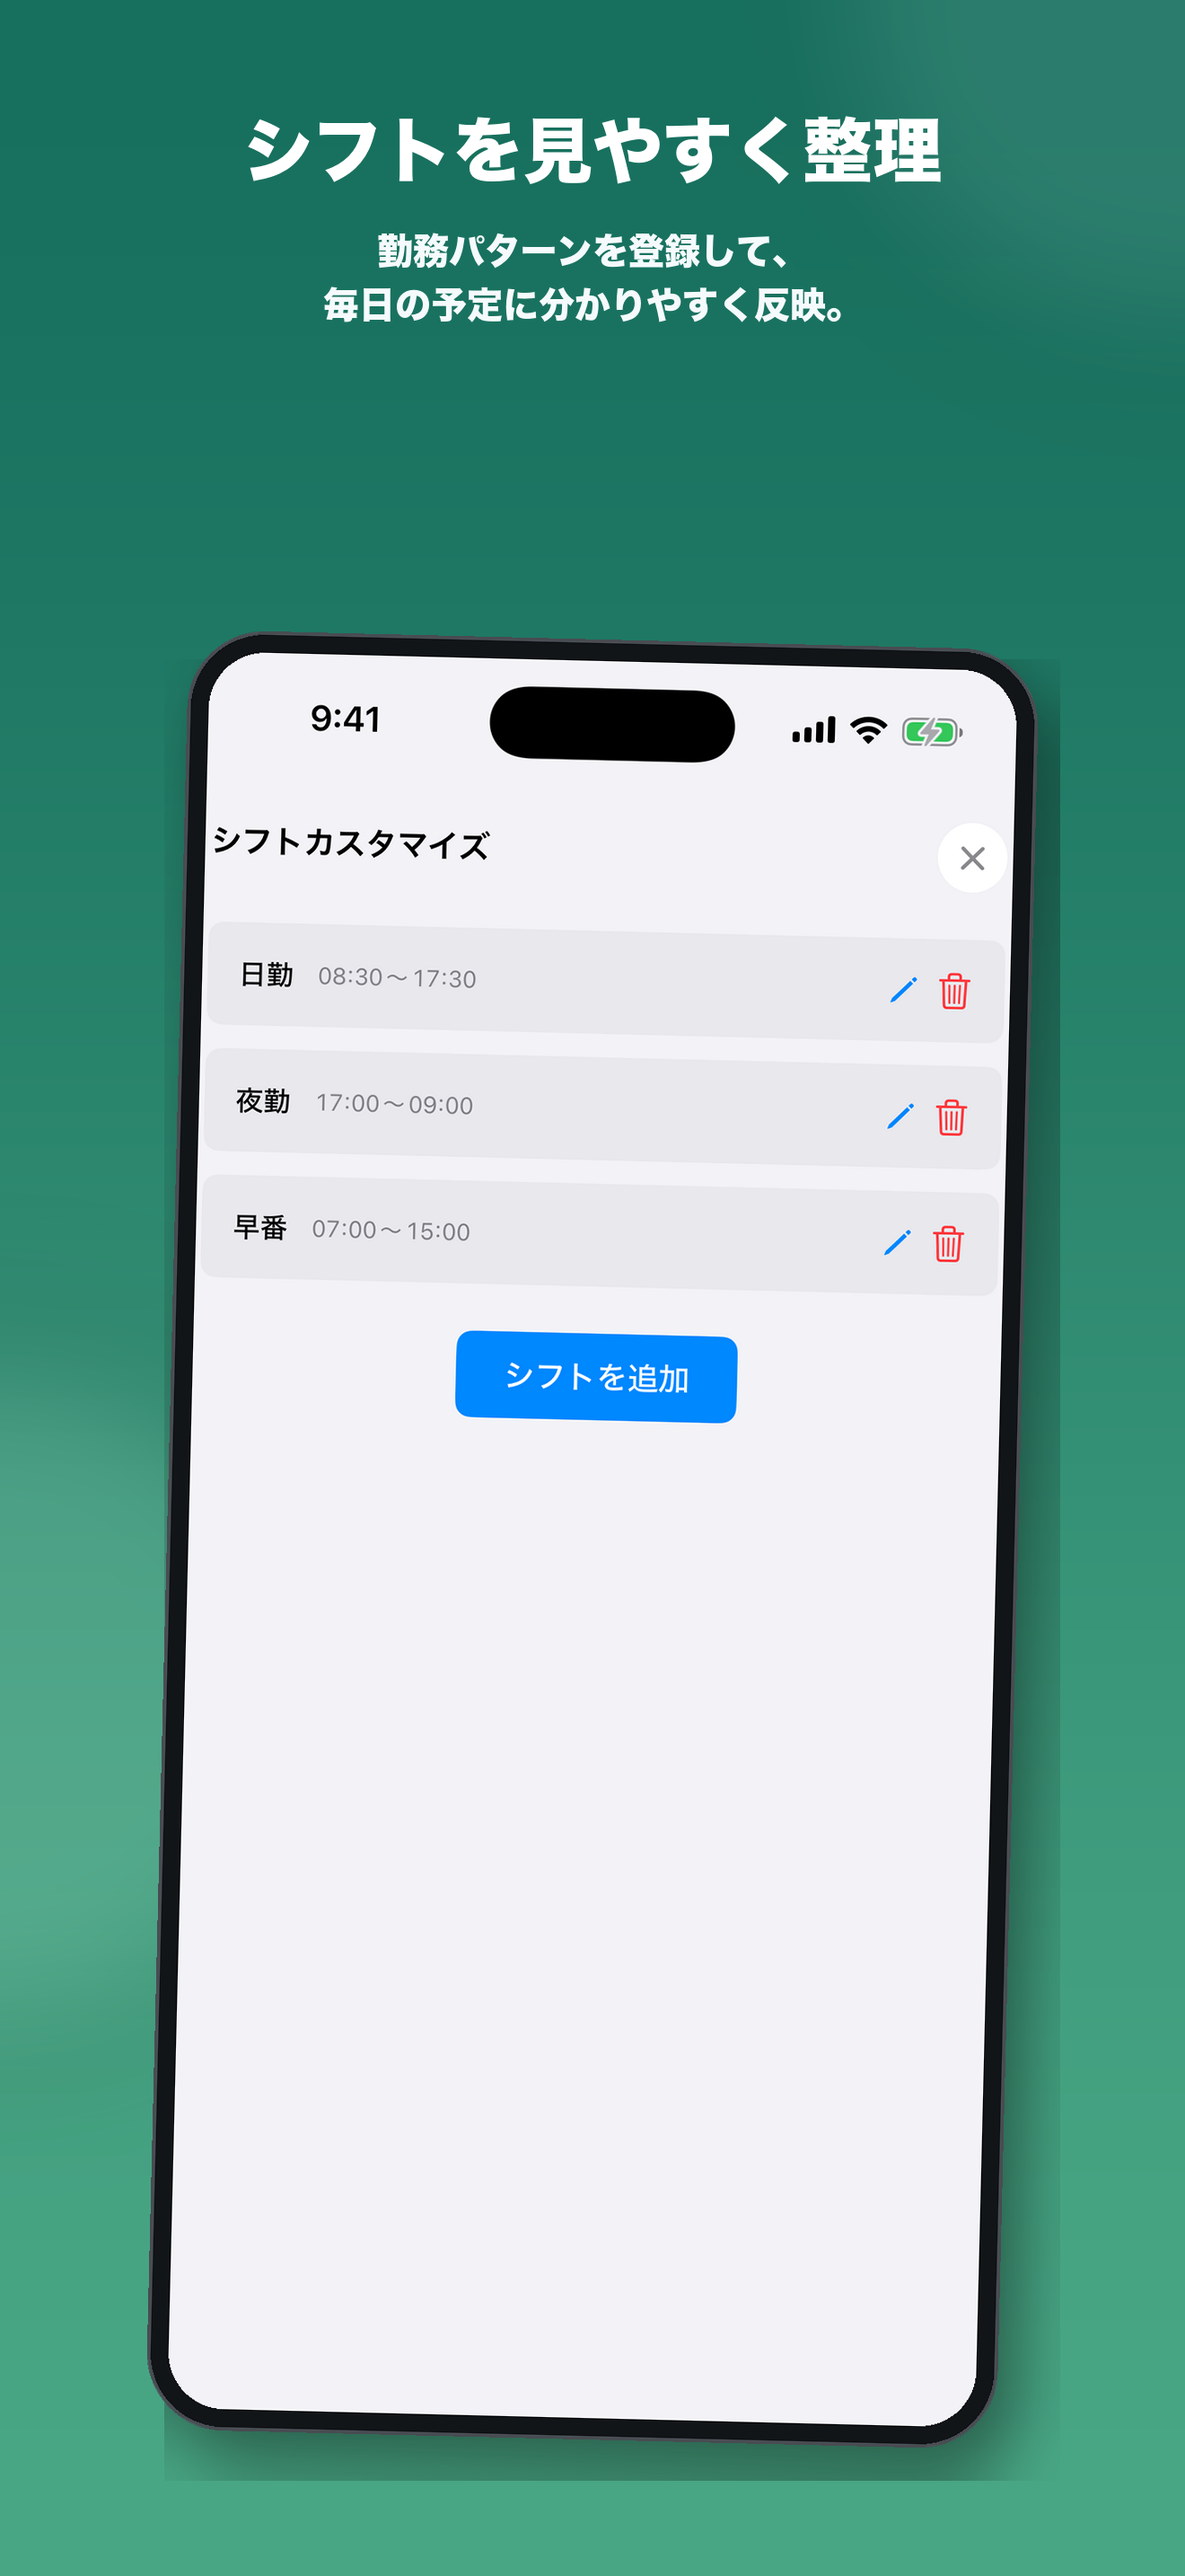
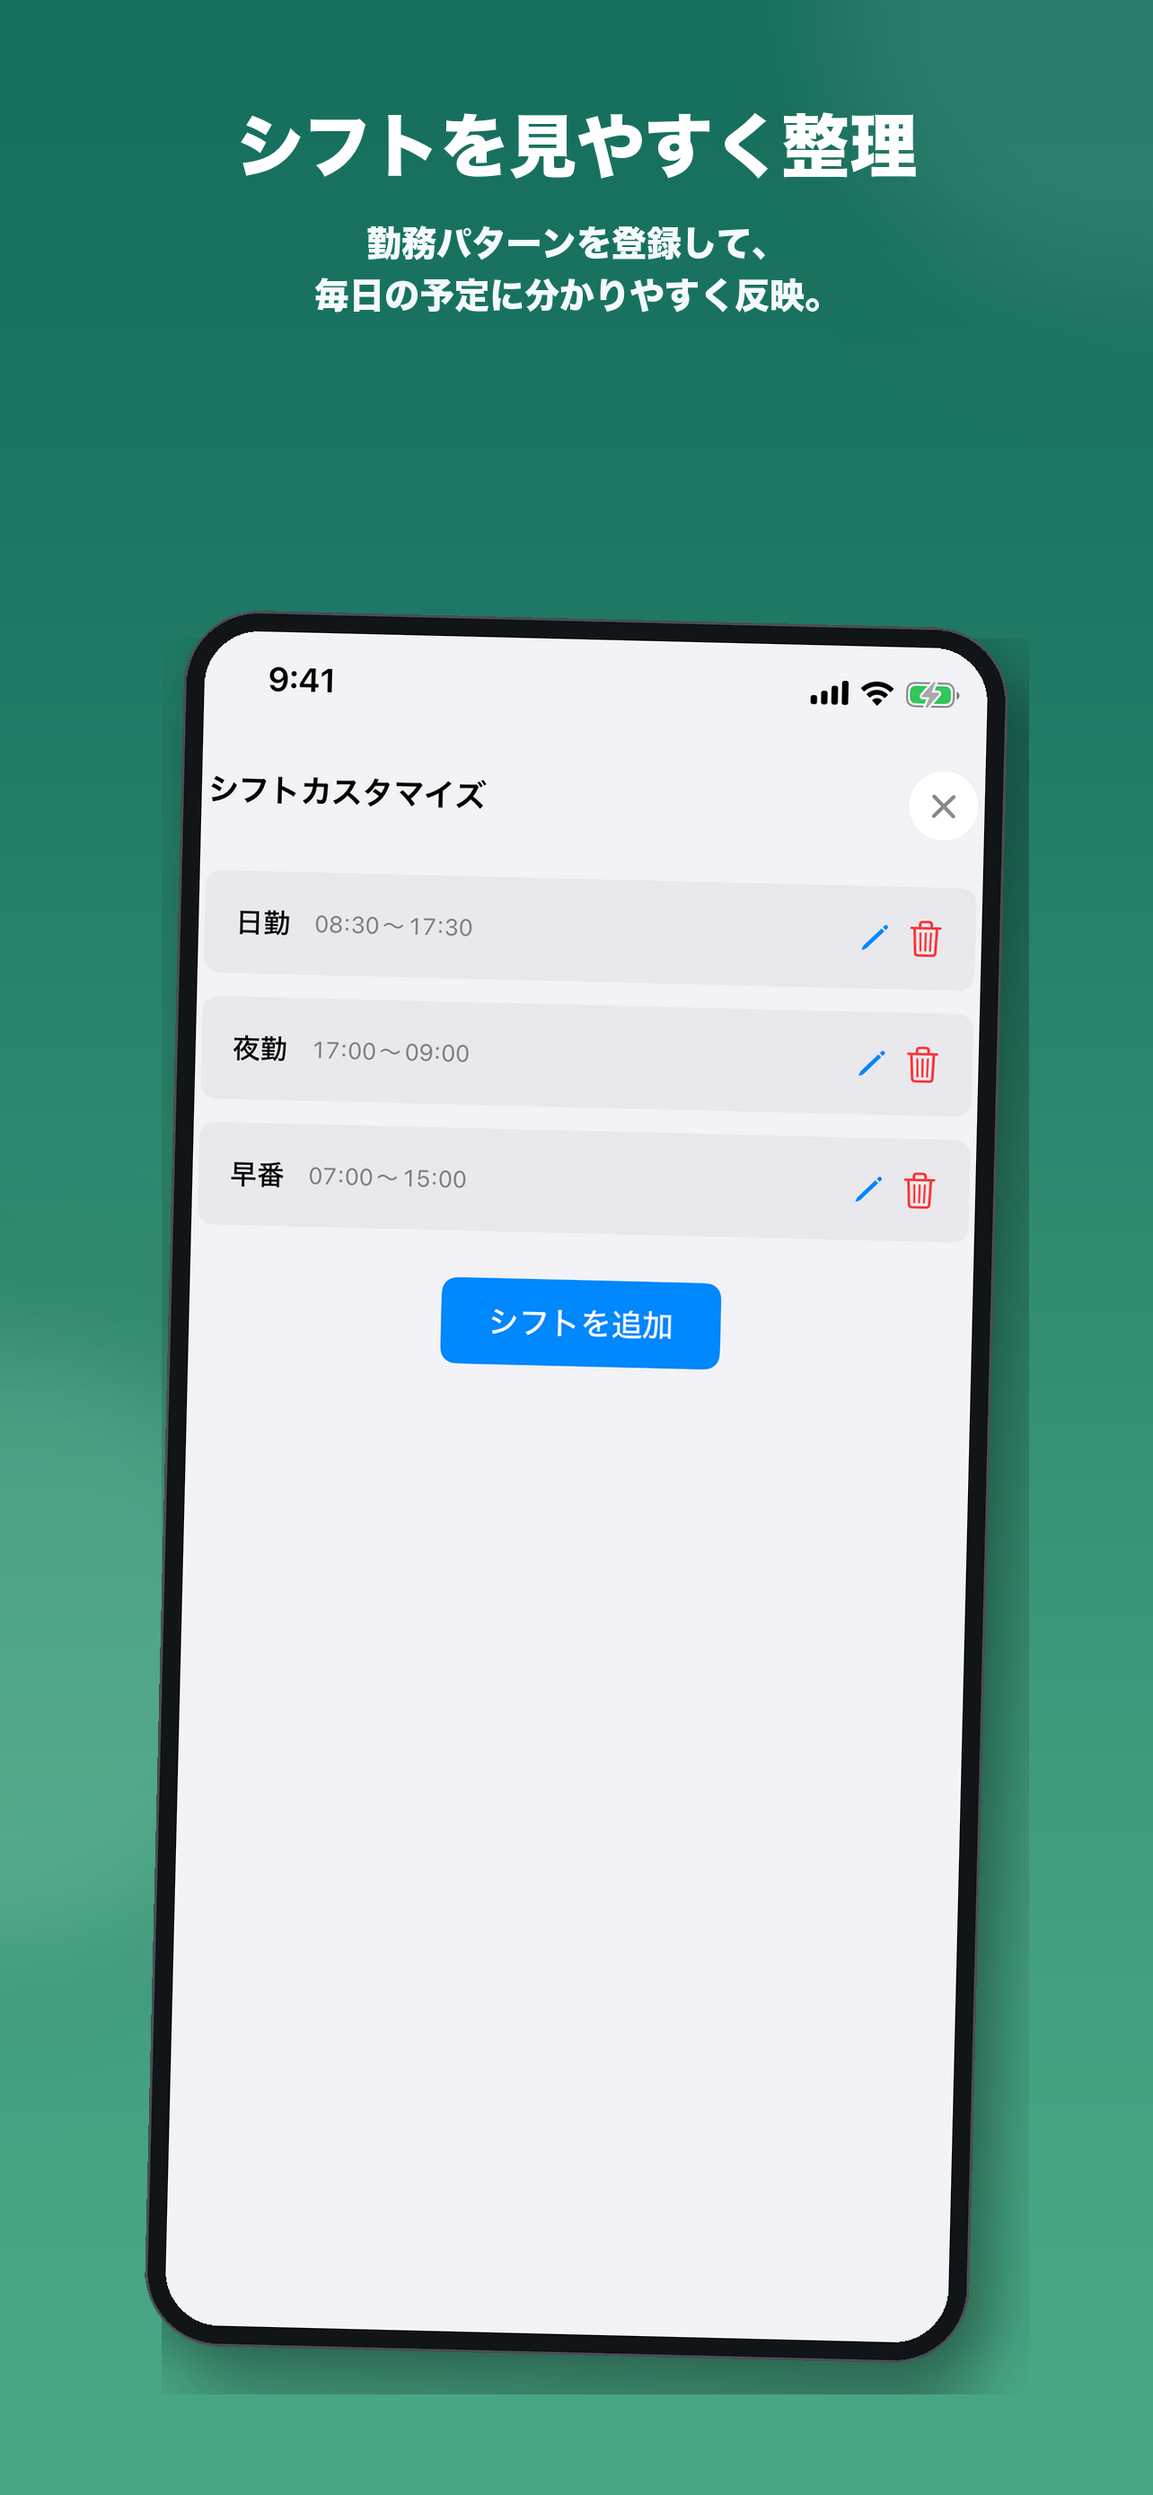
截图

diff --git a/Tests/TimeNestScreenshotUITests/WidgetSetupUITests.swift b/Tests/TimeNestScreenshotUITests/WidgetSetupUITests.swift
@@ -14,6 +14,15 @@ final class WidgetSetupUITests: XCTestCase {
         let springboard = XCUIApplication(bundleIdentifier: "com.apple.springboard")
         XCTAssertTrue(springboard.wait(for: .runningForeground, timeout: 5))
 
+        let appSwitcher = springboard.otherElements["AppSwitcherContentView"]
+        if appSwitcher.waitForExistence(timeout: 2) {
+            XCUIDevice.shared.press(.home)
+            XCTAssertFalse(
+                appSwitcher.waitForExistence(timeout: 2),
+                "Unable to leave the App Switcher for the Home Screen."
+            )
+        }
+
         let emptyArea = springboard.coordinate(withNormalizedOffset: CGVector(dx: 0.82, dy: 0.72))
         emptyArea.press(forDuration: 2.0)
 

diff --git a/AppStoreAssets/1.3/ja/scripts/compose_screenshots.py b/AppStoreAssets/1.3/ja/scripts/compose_screenshots.py
@@ -22,7 +22,8 @@ def parse_args() -> argparse.Namespace:
     parser = argparse.ArgumentParser()
     parser.add_argument(
         "--platform",
-        choices=("iPhone", "iPad", "all"),
+        type=str.lower,
+        choices=("iphone", "ipad", "all"),
         default="all",
         help="Platform to compose (default: all).",
     )
@@ -206,52 +207,65 @@ def device_mockup(
     return frame.rotate(angle, resample=RESAMPLING.BICUBIC, expand=True)
 
 
-def place_with_shadow(canvas: Image.Image, item: Image.Image, position: tuple[int, int]) -> None:
+def place_with_shadow(
+    canvas: Image.Image,
+    item: Image.Image,
+    position: tuple[int, int],
+    scale: float = 1.0,
+) -> None:
     shadow = Image.new("RGBA", item.size, (0, 0, 0, 0))
     silhouette = item.getchannel("A")
     shadow.putalpha(silhouette.point(lambda value: round(value * 0.42)))
     black = Image.new("RGBA", item.size, (0, 0, 0, 255))
     black.putalpha(shadow.getchannel("A"))
-    black = black.filter(ImageFilter.GaussianBlur(radius=34))
-    canvas.alpha_composite(black, (position[0] + 22, position[1] + 34))
+    black = black.filter(ImageFilter.GaussianBlur(radius=max(1, round(34 * scale))))
+    canvas.alpha_composite(
+        black,
+        (position[0] + round(22 * scale), position[1] + round(34 * scale)),
+    )
     canvas.alpha_composite(item, position)
 
 
-def compose_iphone(raw: Image.Image, screen: dict, font_path: str) -> Image.Image:
-    canvas = gradient_background((1320, 2868), screen["colors"], screen["accent"])
-    title_font = ImageFont.truetype(font_path, 78, index=0)
-    subtitle_font = ImageFont.truetype(font_path, 40, index=0)
+def compose_iphone(raw: Image.Image, screen: dict, font_path: str, config: dict) -> Image.Image:
+    canvas_size = tuple(config.get("canvas_size", config["final_size"]))
+    scale = min(canvas_size[0] / 1320, canvas_size[1] / 2868)
+    frame = config["frame"]
+    canvas = gradient_background(canvas_size, screen["colors"], screen["accent"])
+    title_font = ImageFont.truetype(font_path, round(78 * scale), index=0)
+    subtitle_font = ImageFont.truetype(font_path, round(40 * scale), index=0)
 
     y = draw_centered_text(
         canvas,
         screen.get("iphone_title", screen["title"]),
         title_font,
-        1120,
-        128,
+        round(1120 * scale),
+        round(128 * scale),
         (255, 255, 255, 255),
-        18,
+        round(18 * scale),
     )
     y = draw_centered_text(
         canvas,
         screen.get("iphone_subtitle", screen["subtitle"]),
         subtitle_font,
-        1050,
-        y + 28,
+        round(1050 * scale),
+        y + round(28 * scale),
         (245, 250, 252, 235),
-        16,
+        round(16 * scale),
     )
 
+    screen_width = int(frame["screen_width"])
+    screen_height = round(screen_width * raw.height / raw.width)
     mockup = device_mockup(
         raw,
         screen["iphone_crop"],
-        screen_size=(900, 1956),
-        border=24,
-        corner_radius=62,
+        screen_size=(screen_width, screen_height),
+        border=int(frame["border"]),
+        corner_radius=int(frame["corner_radius"]),
         angle=-1.4 if int(screen["id"]) % 2 else 1.4,
     )
     x = (canvas.width - mockup.width) // 2
-    device_y = max(700, y + 62)
-    place_with_shadow(canvas, mockup, (x, device_y))
+    device_y = max(int(frame["minimum_top"]), y + round(62 * scale))
+    place_with_shadow(canvas, mockup, (x, device_y), scale=scale)
     return canvas
 
 
@@ -303,6 +317,8 @@ def compose(platforms: Iterable[str]) -> None:
     manifest = load_manifest()
     font_path = find_font()
     for platform in platforms:
+        config = manifest["platforms"][platform]
+        raw_size = tuple(config.get("raw_size", (config["width"], config["height"])))
         for screen in manifest["screens"]:
             filename = f'{screen["id"]}_{screen["slug"]}.png'
             raw_path = ROOT / platform / "raw" / filename
@@ -310,8 +326,10 @@ def compose(platforms: Iterable[str]) -> None:
             if not raw_path.is_file():
                 raise FileNotFoundError(f"Missing raw screenshot: {raw_path}")
             with Image.open(raw_path) as raw:
+                if raw.size != raw_size:
+                    raise ValueError(f"{raw_path} has {raw.size}; expected {raw_size}")
                 final = (
-                    compose_iphone(raw, screen, font_path)
+                    compose_iphone(raw, screen, font_path, config)
                     if platform == "iPhone"
                     else compose_ipad(raw, screen, font_path)
                 )
@@ -321,7 +339,12 @@ def compose(platforms: Iterable[str]) -> None:
 
 def main() -> None:
     args = parse_args()
-    platforms = ("iPhone", "iPad") if args.platform == "all" else (args.platform,)
+    platform_names = {"iphone": "iPhone", "ipad": "iPad"}
+    platforms = (
+        ("iPhone", "iPad")
+        if args.platform == "all"
+        else (platform_names[args.platform],)
+    )
     compose(platforms)
 
 

diff --git a/AppStoreAssets/1.3/ja/scripts/verify_screenshots.py b/AppStoreAssets/1.3/ja/scripts/verify_screenshots.py
@@ -19,7 +19,12 @@ def expected_names() -> list[str]:
     return [f'{item["id"]}_{item["slug"]}.png' for item in MANIFEST["screens"]]
 
 
-def validate_image(path: Path, expected_size: tuple[int, int], final: bool) -> list[str]:
+def validate_image(
+    path: Path,
+    expected_size: tuple[int, int],
+    final: bool,
+    forbidden_sizes: set[tuple[int, int]] | None = None,
+) -> list[str]:
     errors: list[str] = []
     try:
         with Image.open(path) as image:
@@ -27,6 +32,8 @@ def validate_image(path: Path, expected_size: tuple[int, int], final: bool) -> l
                 errors.append(f"{path}: expected PNG, got {image.format}")
             if image.size != expected_size:
                 errors.append(f"{path}: expected {expected_size}, got {image.size}")
+            if forbidden_sizes and image.size in forbidden_sizes:
+                errors.append(f"{path}: contains forbidden stale size {image.size}")
             if final and image.mode != "RGB":
                 errors.append(f"{path}: final image must be RGB, got {image.mode}")
             if "A" in image.getbands():
@@ -60,7 +67,9 @@ def main() -> int:
 
     for platform in ("iPhone", "iPad"):
         config = MANIFEST["platforms"][platform]
-        size = (config["width"], config["height"])
+        raw_size = tuple(config.get("raw_size", (config["width"], config["height"])))
+        final_size = tuple(config.get("final_size", (config["width"], config["height"])))
+        forbidden_sizes = {(1320, 2868)} if platform == "iPhone" else set()
         raw_dir = ROOT / platform / "raw"
         final_dir = ROOT / platform / "final"
         for directory in (raw_dir, final_dir):
@@ -71,8 +80,22 @@ def main() -> int:
                 errors.append(f"{directory}: missing={missing}, extra={extra}")
 
         for name in names:
-            errors.extend(validate_image(raw_dir / name, size, final=False))
-            errors.extend(validate_image(final_dir / name, size, final=True))
+            errors.extend(
+                validate_image(
+                    raw_dir / name,
+                    raw_size,
+                    final=False,
+                    forbidden_sizes=forbidden_sizes,
+                )
+            )
+            errors.extend(
+                validate_image(
+                    final_dir / name,
+                    final_size,
+                    final=True,
+                    forbidden_sizes=forbidden_sizes,
+                )
+            )
 
     if errors:
         print("Screenshot verification failed:", file=sys.stderr)
@@ -81,6 +104,7 @@ def main() -> int:
         return 1
 
     print("Verified 40 PNG files: 20 raw and 20 final.")
+    print("iPhone: 10 raw and 10 final at 1284x2778; no stale 1320x2868 files.")
     print("Final files: exact target dimensions, RGB, opaque, embedded sRGB profile.")
     print("Manifest: 10 complete Japanese title/subtitle/description sets.")
     return 0

diff --git a/AppStoreAssets/1.3/ja/templates/style-guide.md b/AppStoreAssets/1.3/ja/templates/style-guide.md
@@ -2,7 +2,7 @@
 
 ## 共通ルール
 
-- App Store Connect用PNGは、iPhoneが `1320 x 2868`、iPadが `2064 x 2752`。
+- App Store Connect用PNGは、iPhone 6.5インチが `1284 x 2778`、iPadが `2064 x 2752`。
 - 背景はテーマごとの2色グラデーション。本文と見出しは白。
 - フォントはmacOS標準の日本語フォントのみを使用し、外部フォント素材は使用しない。
 - 端末枠はスクリプトで描画する単純な角丸枠。第三者の端末モックアップ素材は使用しない。
